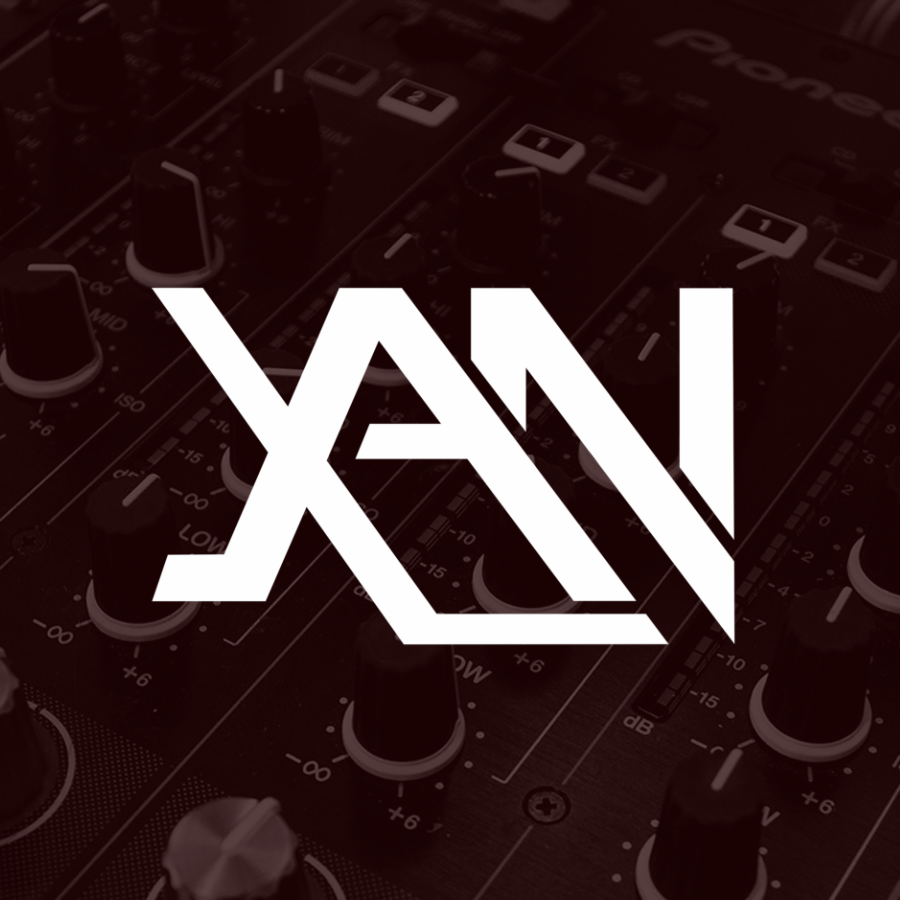
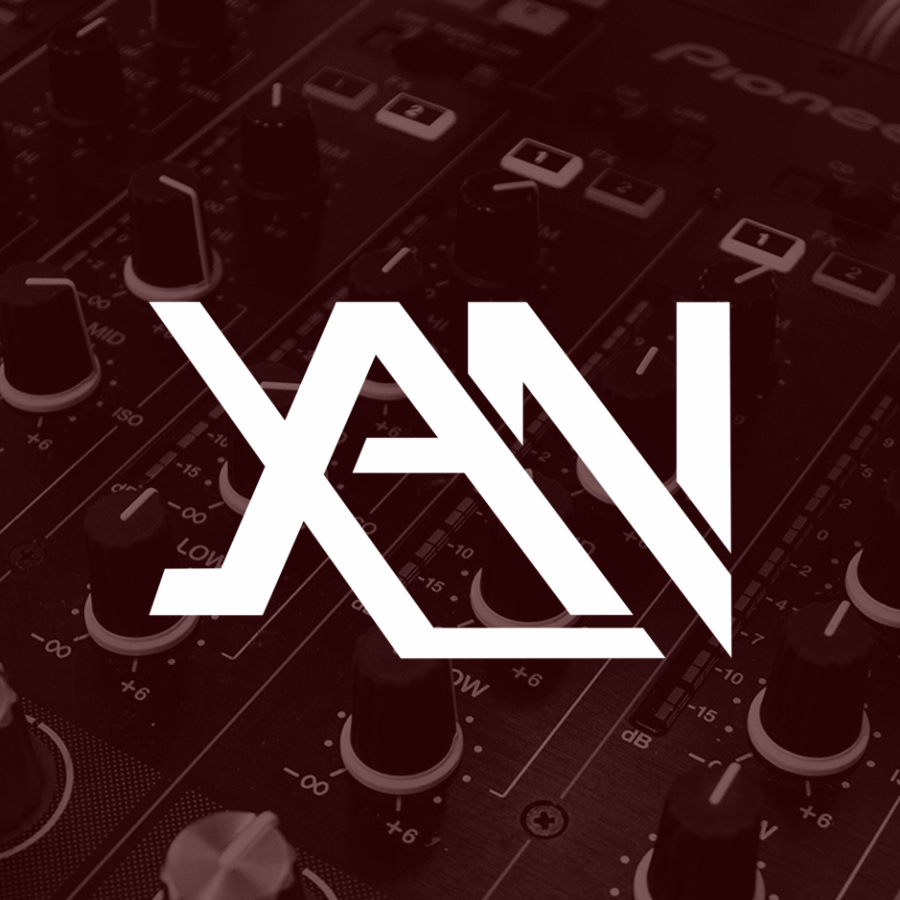
Gallery Item CSS media queries

diff --git a/src/App.css b/src/App.css
@@ -41,7 +41,7 @@ body {
 }
 :root {
   --darken: rgba(0, 0, 0, 0.6);
-  --xan-darken: rgba(60, 0, 0, 0.65);
+  --xan-darken: rgba(50, 0, 0, 0.65);
   --white: rgba(255, 255, 255, 0.9);
   --black: rgba(0, 0, 0, 0.75);
   --applegrey: #f3f3f3;
@@ -468,24 +468,38 @@ hr {
   margin: 0 auto;
 }
 .portfolio-col {
-  width: 100%;
-  max-width: 450px;
-  height: 450px;
-  padding: 5px !important;
+  width: 275px;
+  height: 275px;
+  padding: 3px !important;
+}
+@media (min-width: 1440px) {
+  .portfolio-col {
+    width: 325px;
+    height: 325px;
+  }
+}
+@media (min-width: 1840px) {
+  .portfolio-col {
+    width: 400px;
+    height: 400px;
+  }
+}
+@media (max-width: 1199px) {
+  .portfolio-col {
+    width: 300px;
+    height: 300px;
+  }
 }
 .portfolio-gallery-inner {
   height: 100%;
   width: 100%;
   background: rgba(0, 0, 0, 0);
-  transition: var(--trans-standard);
 }
-.portfolio-col:hover .portfolio-gallery-inner {
-  background: rgba(200, 200, 200, 0.8);
-  transition: var(--trans-standard);
-}
+
 .portfolio-gallery-item {
   width: 100%;
   height: 100%;
+  cursor: pointer;
 }
 .portfolio-gallery-item-1 {
   background: url('img/Gallery\ Xan.png') no-repeat center;

diff --git a/src/components/dev/portfolio/PortfolioGalleryItem.js b/src/components/dev/portfolio/PortfolioGalleryItem.js
@@ -4,7 +4,7 @@ import { Col } from 'reactstrap';
 export default props => {
   const { num } = props;
   return (
-    <Col md="12" lg="6" className="portfolio-col center-items">
+    <Col lg="6" xl="3" className="portfolio-col center-items">
       <div className={`portfolio-gallery-item portfolio-gallery-item-${num}`}>
         <div className="portfolio-gallery-inner" />
       </div>

diff --git a/src/components/dev/portfolio/PortfolioIntro.js b/src/components/dev/portfolio/PortfolioIntro.js
@@ -5,7 +5,7 @@ import Abilities from './Abilities';
 export default () => {
   return (
     <div className="portfolio-intro page-padding center-items">
-      <Container className="conditional-padding mb-2">
+      <Container className="conditional-padding mb-4">
         <h1 className="OpenSans font-weight-bold page-title text-center ">
           PORTFOLIO
         </h1>

diff --git a/src/components/dev/portfolio/PortfolioGallery.js b/src/components/dev/portfolio/PortfolioGallery.js
@@ -8,8 +8,6 @@ export default () => {
       <Row className="center-items-horizontally">
         <PortfolioGalleryItem num="1" />
         <PortfolioGalleryItem num="2" />
-      </Row>
-      <Row className="center-items-horizontally">
         <PortfolioGalleryItem num="3" />
         <PortfolioGalleryItem num="4" />
       </Row>
